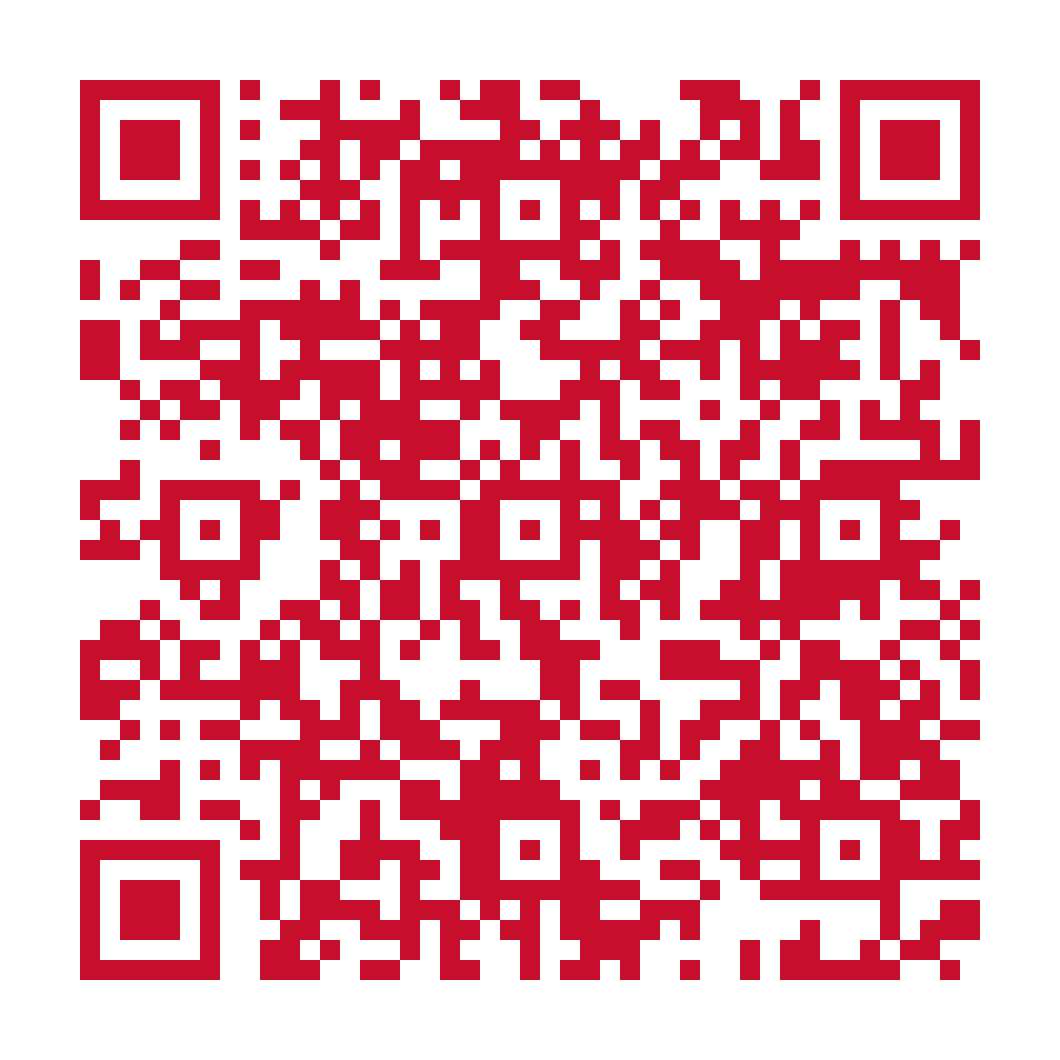
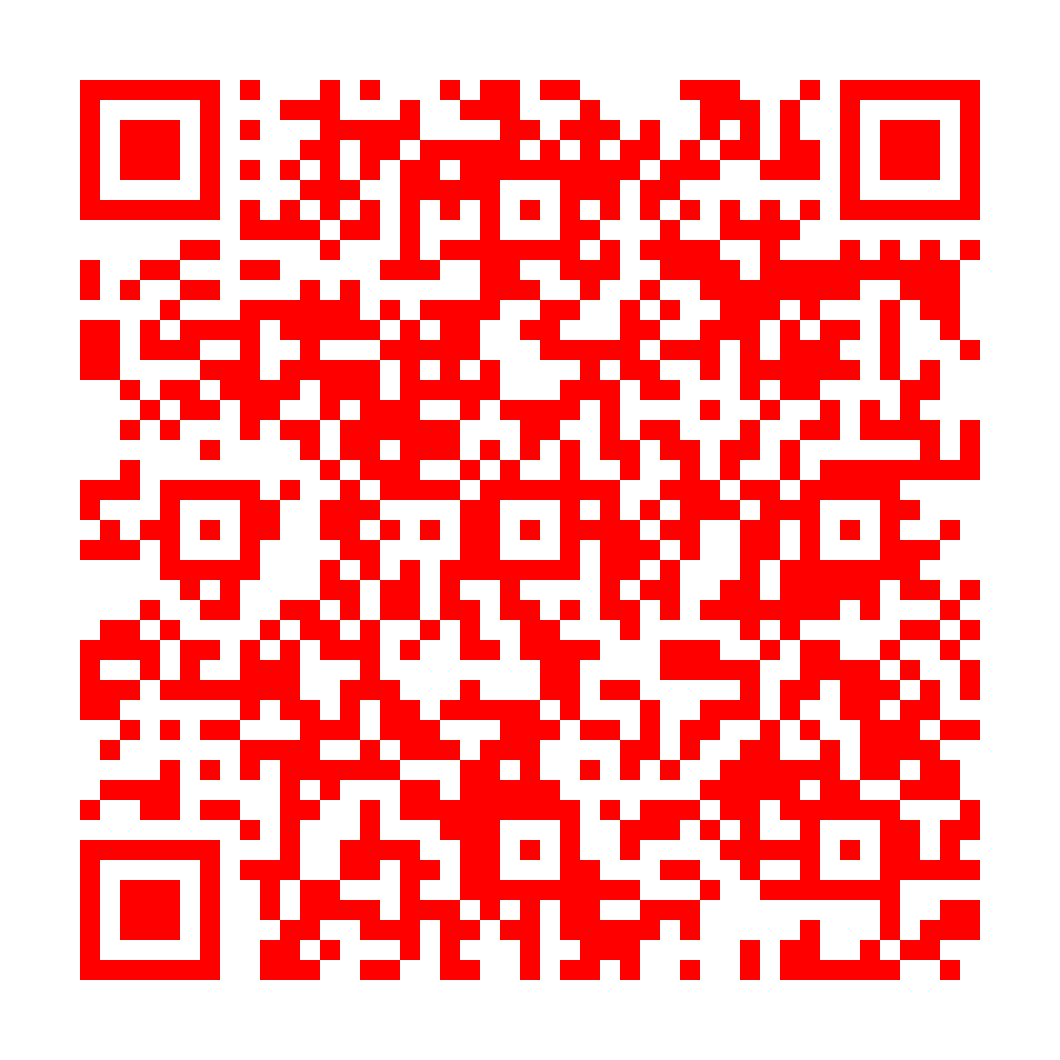
QR 컬러 버전을 비비드 레드(#FF0000)로 변경
브랜드 레드(#C8102E)에서 라라님이 요청한 비비드 레드로 톤 변경.
generate_qr.py 색상값과 png 파일 둘 다 갱신.

diff --git a/generate_qr.py b/generate_qr.py
@@ -24,10 +24,10 @@ img = qr.make_image(fill_color="#1A1A1A", back_color="white")
 img.save("qr-respond.png")
 print(f"[OK] qr-respond.png saved (size: {img.size[0]}x{img.size[1]})")
 
-# 컨셉 컬러 — 레드 (#C8102E)
+# 컨셉 컬러 — 비비드 레드 (#FF0000)
 # 일부 구형 스캐너는 어두운 색 외엔 인식률이 떨어질 수 있음 → 보조용으로만 사용
-img_red = qr.make_image(fill_color="#C8102E", back_color="white")
+img_red = qr.make_image(fill_color="#FF0000", back_color="white")
 img_red.save("qr-respond-red.png")
-print(f"[OK] qr-respond-red.png saved (red brand color)")
+print(f"[OK] qr-respond-red.png saved (vivid red #FF0000)")
 
 print(f"\nURL: {URL}")
